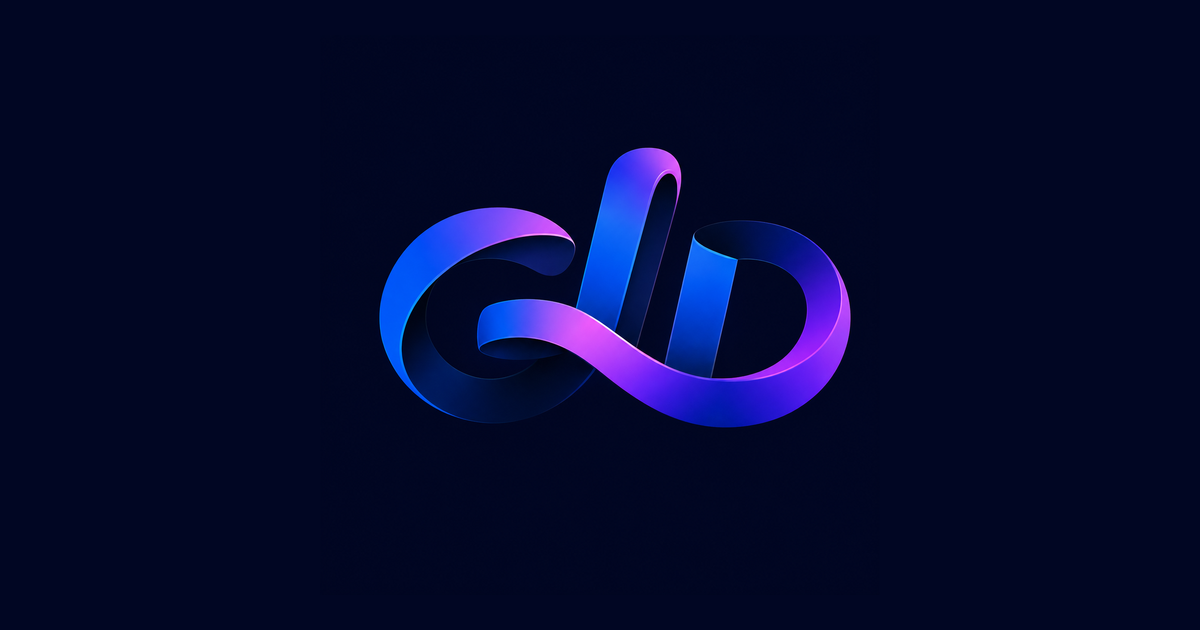
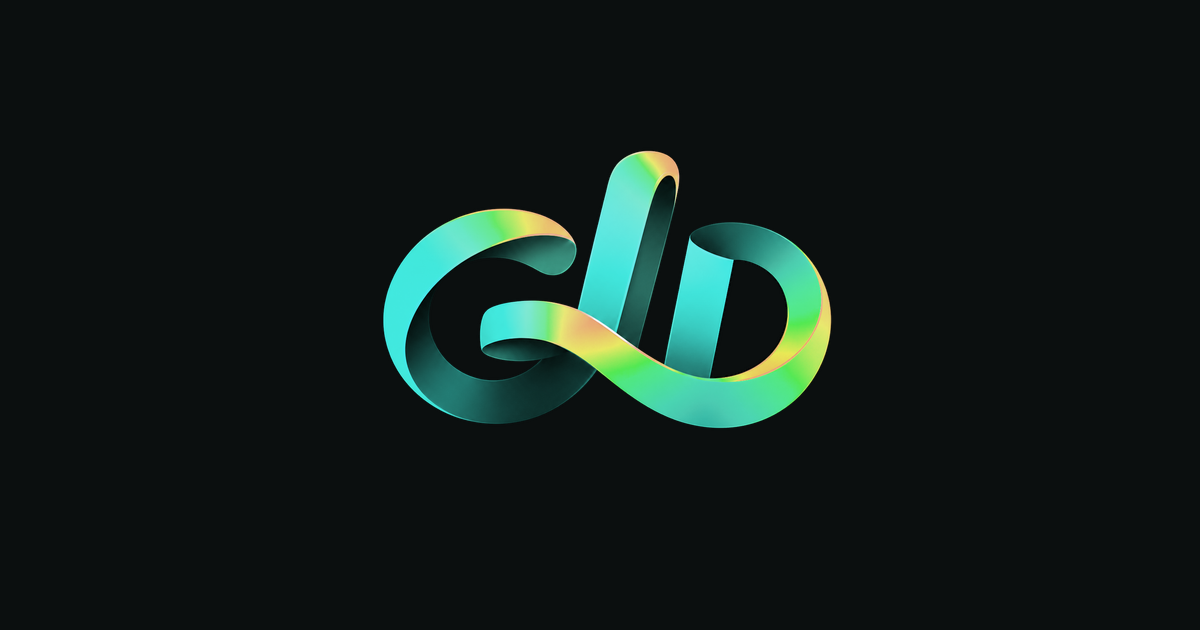
feat: recolour the mark into the site palette and cut out its background
The logo was blue to magenta while the site is amber and teal — close to
opposite in temperature, and the two could not share a page. Rather than
change the site, which would have cost the two-signal colour system that
carries the whole information architecture, the mark is recoloured to match.

Two problems needed solving properly.

Hue could not be fixed by rotation. The source spans about 80 degrees, teal to
amber spans 145, so the range has to be stretched. It also cannot be linear:
59% of the mark sits in one narrow blue band, and a linear map sends all of it
to green, which came out looking like a highlighter. The map is piecewise,
compressing the blue mass onto teal and stretching the sparse magenta tail out
to amber. Stops sit on the measured token hues — 173 for platform, 18 for
grow — rather than on anything chosen by eye.

The background had no alpha and could not be keyed by brightness, because the
mark's own shadow faces are as dark as the background. A flood fill inward
from the borders removes only what is connected to the outside, so enclosed
darkness survives. A second pass then removes the counter inside the D, safe
at a threshold of 4 because the histogram is empty between there and the real
shadows at 20.

The result is one transparent file that works on both themes, so the variant
swap and its CSS are gone. Favicon, social card and profile picture are all
regenerated from the same master.

Changed region(s): [[0.3083, 0.2111, 0.7092, 0.6937]]

diff --git a/scripts/recolour-mark.js b/scripts/recolour-mark.js
@@ -1,0 +1,257 @@
+/**
+ * Recolour the Good Looking Digital mark from its original blue/magenta into
+ * the site palette (teal through green to amber), and separate it from its
+ * baked background.
+ *
+ * Two problems, two techniques:
+ *
+ * 1. Hue. A rigid rotation cannot work — the source spans roughly 80 degrees
+ *    (blue to magenta) while the target spans about 145 (teal to amber), so
+ *    the range has to be stretched, not shifted.
+ *
+ * 2. Background. A global brightness threshold would punch holes in the mark,
+ *    because its own shadow faces are as dark as the background. A flood fill
+ *    inward from the borders only removes pixels actually connected to the
+ *    outside, so enclosed dark areas survive.
+ */
+
+const sharp = require("sharp");
+const path = require("path");
+
+const SRC = process.argv[2];
+const OUT_DIR = process.argv[3];
+
+/**
+ * Piecewise hue map, not linear.
+ *
+ * The source is not evenly spread: 59% of coloured pixels sit in the blue
+ * 210-240 band and only a thin tail reaches magenta. A linear map therefore
+ * dumps the bulk into green and the mark comes out looking like a highlighter.
+ *
+ * Instead the blue mass is compressed so it stays teal, and the sparse
+ * violet-to-magenta tail is stretched out to reach amber. The result echoes the
+ * site: teal dominant, amber on the highlights.
+ */
+const HUE_STOPS = [
+  [205, 180], // cyan edge     -> light teal
+  [228, 173], // the blue peak -> sits on --platform (172-175)
+  [248, 165], // violet-blue   -> still teal
+  [266, 140], // violet        -> green, deliberately a narrow passage
+  [282, 60], //  magenta       -> through gold quickly
+  [300, 18], //  hot magenta   -> sits on --grow (17-20)
+];
+
+// The source averages 0.89 saturation. Nothing else on this site is that loud.
+const SAT_SCALE = 0.72;
+
+// Highlights are near-neon; pull the very brightest down without flattening.
+const VALUE_KNEE = 0.8;
+
+const BG_MAX_CHANNEL = 10;
+
+function rgbToHsv(r, g, b) {
+  r /= 255;
+  g /= 255;
+  b /= 255;
+  const mx = Math.max(r, g, b);
+  const mn = Math.min(r, g, b);
+  const d = mx - mn;
+  let h = 0;
+  if (d !== 0) {
+    if (mx === r) h = ((g - b) / d) % 6;
+    else if (mx === g) h = (b - r) / d + 2;
+    else h = (r - g) / d + 4;
+    h *= 60;
+    if (h < 0) h += 360;
+  }
+  return [h, mx === 0 ? 0 : d / mx, mx];
+}
+
+function hsvToRgb(h, s, v) {
+  const c = v * s;
+  const x = c * (1 - Math.abs(((h / 60) % 2) - 1));
+  const m = v - c;
+  let r = 0,
+    g = 0,
+    b = 0;
+  if (h < 60) [r, g, b] = [c, x, 0];
+  else if (h < 120) [r, g, b] = [x, c, 0];
+  else if (h < 180) [r, g, b] = [0, c, x];
+  else if (h < 240) [r, g, b] = [0, x, c];
+  else if (h < 300) [r, g, b] = [x, 0, c];
+  else [r, g, b] = [c, 0, x];
+  return [
+    Math.round((r + m) * 255),
+    Math.round((g + m) * 255),
+    Math.round((b + m) * 255),
+  ];
+}
+
+function remapHue(h) {
+  if (h <= HUE_STOPS[0][0]) return HUE_STOPS[0][1];
+  const last = HUE_STOPS[HUE_STOPS.length - 1];
+  if (h >= last[0]) return last[1];
+  for (let i = 0; i < HUE_STOPS.length - 1; i++) {
+    const [s0, d0] = HUE_STOPS[i];
+    const [s1, d1] = HUE_STOPS[i + 1];
+    if (h >= s0 && h <= s1) {
+      const t = (h - s0) / (s1 - s0);
+      return d0 + t * (d1 - d0);
+    }
+  }
+  return last[1];
+}
+
+/** Ease the top of the value range so highlights stop looking neon. */
+function tameValue(v) {
+  return v <= VALUE_KNEE ? v : VALUE_KNEE + (v - VALUE_KNEE) * 0.6;
+}
+
+/** Border-connected flood fill. Returns a Uint8Array mask, 1 = background. */
+function backgroundMask(data, w, h, ch) {
+  const mask = new Uint8Array(w * h);
+  const stack = [];
+  const isDark = (p) => {
+    const i = p * ch;
+    return Math.max(data[i], data[i + 1], data[i + 2]) < BG_MAX_CHANNEL;
+  };
+
+  for (let x = 0; x < w; x++) {
+    stack.push(x, (h - 1) * w + x);
+  }
+  for (let y = 0; y < h; y++) {
+    stack.push(y * w, y * w + w - 1);
+  }
+
+  while (stack.length) {
+    const p = stack.pop();
+    if (mask[p] || !isDark(p)) continue;
+    mask[p] = 1;
+    const x = p % w;
+    const y = (p / w) | 0;
+    if (x > 0) stack.push(p - 1);
+    if (x < w - 1) stack.push(p + 1);
+    if (y > 0) stack.push(p - w);
+    if (y < h - 1) stack.push(p + w);
+  }
+  return mask;
+}
+
+(async () => {
+  const { data, info } = await sharp(SRC)
+    .ensureAlpha()
+    .raw()
+    .toBuffer({ resolveWithObject: true });
+  const { width: w, height: h, channels: ch } = info;
+
+  const mask = backgroundMask(data, w, h, ch);
+  let bgCount = 0;
+  for (let i = 0; i < mask.length; i++) bgCount += mask[i];
+
+  const out = Buffer.from(data);
+  let enclosed = 0;
+  for (let p = 0; p < w * h; p++) {
+    const i = p * ch;
+    if (mask[p]) {
+      out[i + 3] = 0; // background becomes transparent
+      continue;
+    }
+    /*
+     * Background the flood fill could not reach, because the ribbon encloses
+     * it — the counter inside the D. Left alone it stays pure black, which is
+     * invisible on a dark page and obviously wrong on a light one.
+     *
+     * Safe to cut by brightness: 8% of surviving pixels sit at max channel 0-1
+     * and then the histogram collapses to near nothing until the mark own
+     * shadows appear around 20. A threshold of 4 lands in that empty gap.
+     */
+    if (Math.max(data[i], data[i + 1], data[i + 2]) < 4) {
+      out[i + 3] = 0;
+      enclosed++;
+      continue;
+    }
+    const [hue, s, v] = rgbToHsv(data[i], data[i + 1], data[i + 2]);
+    // Leave near-greys alone; recolouring them only muddies the highlights.
+    if (s < 0.08) continue;
+    const [r, g, b] = hsvToRgb(
+      remapHue(hue),
+      Math.min(1, s * SAT_SCALE),
+      tameValue(v),
+    );
+    out[i] = r;
+    out[i + 1] = g;
+    out[i + 2] = b;
+  }
+
+  const base = sharp(out, { raw: { width: w, height: h, channels: ch } });
+
+  // Transparent master. One file now serves both themes, because there is no
+  // baked background left to match.
+  const master = await base
+    .clone()
+    .resize(1024, 1024)
+    .png({ compressionLevel: 9 })
+    .toBuffer();
+  await sharp(master).toFile(path.join(OUT_DIR, "mark-1024.png"));
+
+  // Page use — WebP, transparent, a fraction of the weight.
+  await sharp(master)
+    .resize(800, 800)
+    .webp({ quality: 90 })
+    .toFile(path.join(OUT_DIR, "mark-800.webp"));
+
+  // Favicon. Kept transparent so it sits on any browser chrome.
+  await sharp(master)
+    .resize(512, 512)
+    .png({ compressionLevel: 9 })
+    .toFile(path.join(OUT_DIR, "..", "..", "src", "app", "icon.png"));
+
+  // Social profile picture. Platforms crop to a circle and composite on their
+  // own colour, so this one gets an explicit ground rather than transparency.
+  await sharp({
+    create: {
+      width: 1024,
+      height: 1024,
+      channels: 4,
+      background: { r: 11, g: 15, b: 15, alpha: 1 },
+    },
+  })
+    .composite([
+      {
+        input: await sharp(master).resize(820, 820).toBuffer(),
+        gravity: "center",
+      },
+    ])
+    .png({ compressionLevel: 9 })
+    .toFile(path.join(OUT_DIR, "profile-1024.png"));
+
+  // Open Graph card, 1200x630. The mark is square, so it is centred on the
+  // ground rather than stretched into a rectangle.
+  await sharp({
+    create: {
+      width: 1200,
+      height: 630,
+      channels: 4,
+      background: { r: 11, g: 15, b: 15, alpha: 1 },
+    },
+  })
+    .composite([
+      {
+        input: await sharp(master).resize(520, 520).toBuffer(),
+        gravity: "center",
+      },
+    ])
+    .png({ compressionLevel: 9 })
+    .toFile(path.join(OUT_DIR, "og-default.png"));
+
+  console.log(
+    "background removed:",
+    ((100 * bgCount) / (w * h)).toFixed(1) +
+      "% by flood fill, plus " +
+      enclosed +
+      " enclosed pixels",
+  );
+  console.log(
+    "wrote mark-1024.png, mark-800.webp, profile-1024.png, og-default.png, src/app/icon.png",
+  );
+})();

diff --git a/src/components/BrandMark.tsx b/src/components/BrandMark.tsx
@@ -1,17 +1,12 @@
 import Image from "next/image";
 
 /**
- * The logo mark, presented as a framed object.
+ * The logo mark.
  *
- * The source renders have no alpha channel — each is baked onto an opaque
- * rectangle — so the mark cannot float on the page background without showing
- * a visible square. Rather than fight that, the square is made deliberate: the
- * mark sits in its own frame, the way a photograph would.
- *
- * Two files because the baked background has to match the surrounding theme.
- * CSS picks which one shows, using the same three-state pattern as the palette
- * (bare :root, OS preference, explicit stamp) so there is no flash and no
- * hydration mismatch.
+ * The source renders were opaque with no alpha channel, and none of the six
+ * baked backgrounds matched --paper in either theme. The mark is now cut out
+ * and recoloured into the site palette by scripts/recolour-mark.js, so a single
+ * transparent file works on both themes — no variant swap, no framed square.
  */
 export function BrandMark({
   className,
@@ -21,26 +16,13 @@ export function BrandMark({
   priority?: boolean;
 }) {
   return (
-    <div
-      className={`border-rule relative overflow-hidden border ${className ?? ""}`}
-    >
-      <Image
-        src="/brand/mark-navy-800.webp"
-        alt="The Good Looking Digital mark — a ribbon monogram forming a G and a D as a continuous loop"
-        width={800}
-        height={800}
-        priority={priority}
-        className="mark-dark h-auto w-full"
-      />
-      <Image
-        src="/brand/mark-light-800.webp"
-        alt=""
-        aria-hidden="true"
-        width={800}
-        height={800}
-        priority={priority}
-        className="mark-light h-auto w-full"
-      />
-    </div>
+    <Image
+      src="/brand/mark-800.webp"
+      alt="The Good Looking Digital mark — a ribbon monogram forming a G and a D as one continuous loop"
+      width={800}
+      height={800}
+      priority={priority}
+      className={`h-auto w-full ${className ?? ""}`}
+    />
   );
 }

diff --git a/src/app/globals.css b/src/app/globals.css
@@ -211,46 +211,6 @@
   }
 
   /*
-   * Brand mark variants. The logo renders have no alpha channel, so each is
-   * baked onto an opaque rectangle and the file has to match the theme around
-   * it. Same three-state pattern as the palette: bare :root is light, the OS
-   * preference flips it, an explicit stamp overrides both.
-   */
-  .mark-dark {
-    display: none;
-  }
-
-  .mark-light {
-    display: block;
-  }
-
-  @media (prefers-color-scheme: dark) {
-    :root:not([data-theme="light"]) .mark-dark {
-      display: block;
-    }
-
-    :root:not([data-theme="light"]) .mark-light {
-      display: none;
-    }
-  }
-
-  :root[data-theme="dark"] .mark-dark {
-    display: block;
-  }
-
-  :root[data-theme="dark"] .mark-light {
-    display: none;
-  }
-
-  :root[data-theme="light"] .mark-dark {
-    display: none;
-  }
-
-  :root[data-theme="light"] .mark-light {
-    display: block;
-  }
-
-  /*
    * Theme-toggle labels. Both are in the DOM; CSS picks which one shows, using
    * the same three-state pattern as the palette (bare :root, OS preference,
    * explicit stamp). The label names the theme you would switch TO.

diff --git a/README.md b/README.md
@@ -33,6 +33,36 @@ Then open http://localhost:3000.
 | `npm run format`       | Prettier, including class sorting   |
 | `npm run format:check` | Verify formatting without writing   |
 
+## Brand assets
+
+Originals from the designer live in `brand-source/` and are **not** in
+`public/` — anything in `public` is served, and each original is over a
+megabyte. Web assets are generated from them:
+
+```bash
+node scripts/recolour-mark.js brand-source/mark-black.png public/brand
+```
+
+That script does two things the originals needed:
+
+**Recolours** the mark from its original blue-to-magenta into the site
+palette. A rigid hue rotation cannot do this — the source spans about 80
+degrees while teal-to-amber spans 145, so the range has to be stretched. The
+map is also piecewise, because 59% of the mark sits in one narrow blue band
+and a linear map dumps all of it into green. Stops are aligned to the real
+token hues: 173 for `--platform`, 18 for `--grow`.
+
+**Cuts out the background**, which was baked in with no alpha channel. A
+brightness threshold alone would punch holes in the mark, since its own shadow
+faces are nearly as dark as the background, so the fill runs inward from the
+borders and only removes what is actually connected to the outside. A second
+pass removes enclosed background — the counter inside the D — which is safe
+at a threshold of 4 because the histogram is empty between there and the
+shadows at 20.
+
+Re-run it after changing any stop and check the result on both themes before
+committing.
+
 ## Environment
 
 Lead capture needs two services. Copy `.env.example` to `.env.local` for local
